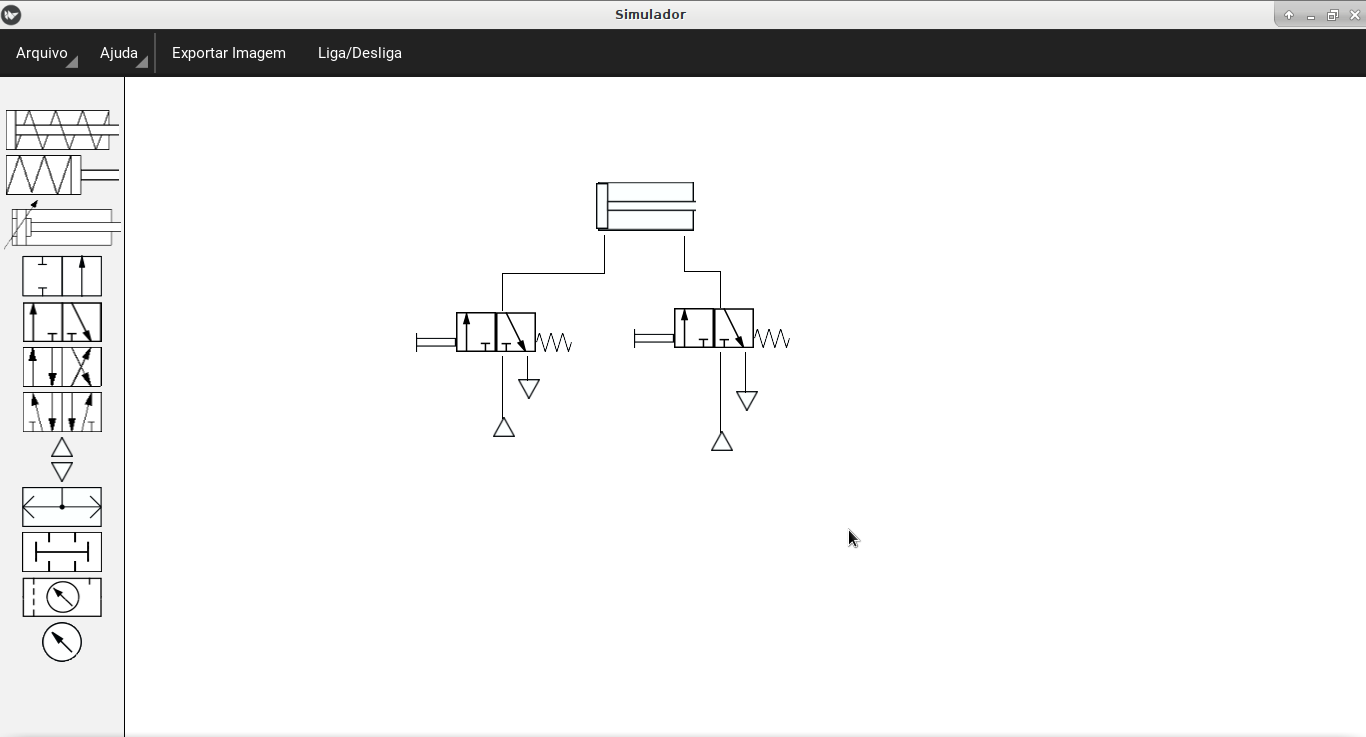
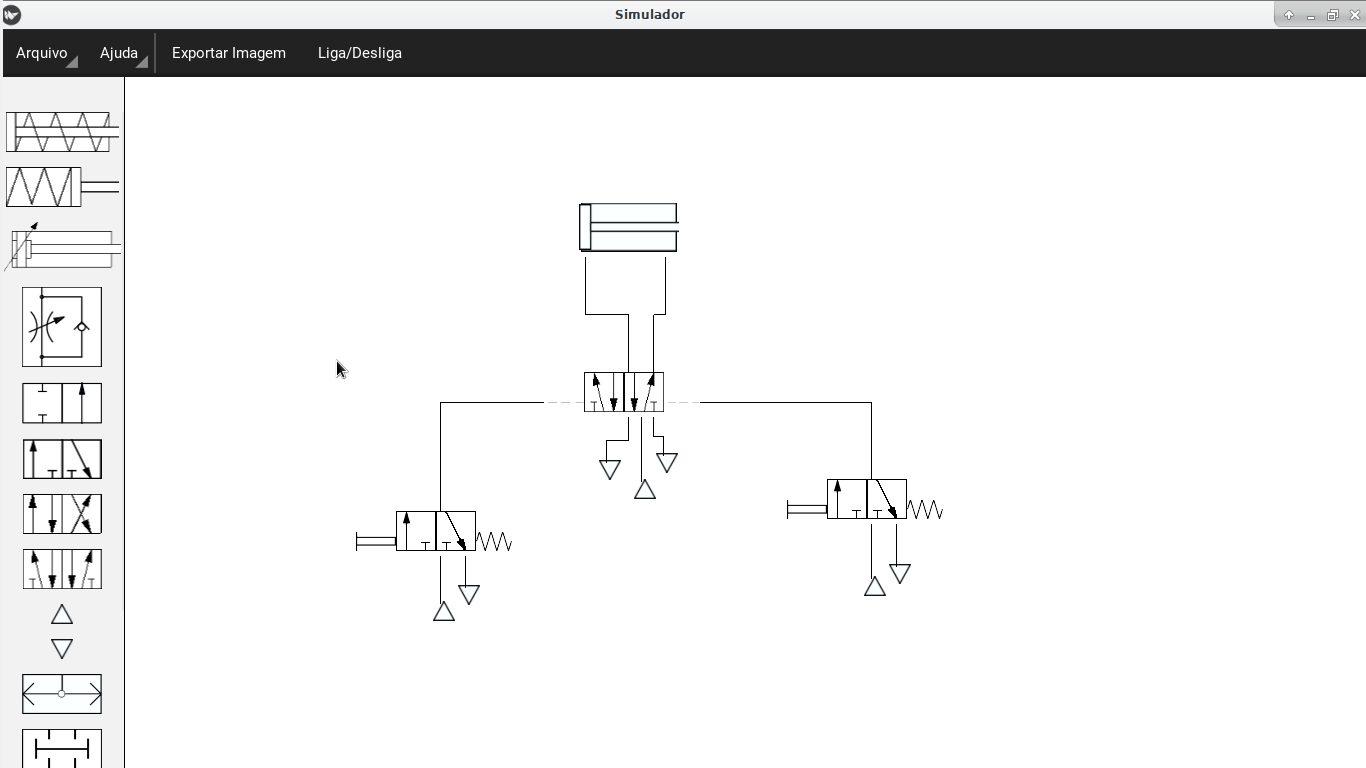
modificações finais

diff --git a/simulador/componentes.py b/simulador/componentes.py
@@ -36,6 +36,10 @@ class Linha(Widget):
     vazao = 0
 
     propaga = BooleanProperty(False)
+    propagou = False
+
+    #workaround para regular a vazao no retorno
+    fator = 1
 
     orientacao1 = 'vertical'
     orientacao2 = 'vertical'
@@ -153,8 +157,9 @@ class Linha(Widget):
     def on_touch_down(self, touch):
         """movimenta a linha ao clicá-la e arrastá-la"""
         if touch.button == 'right':
-            if self.point_over(touch.pos):
-                self.apaga_linha()
+            if not simulando:
+                if self.point_over(touch.pos):
+                    self.apaga_linha()
         else:
             global movendo
 
@@ -205,11 +210,13 @@ class Linha(Widget):
     # def on_pressao(self, instance, value):
     def on_propaga(self, instance, value):
         """tranfere seus dados às linhas seguintes"""
+        #self.propagou = False
         if self.propaga:
             for linha in self.connected_lines:
                 linha.pressao = self.pressao
                 linha.vazao = self.vazao
                 linha.propaga = True
+            self.propagou = True
             self.propaga = False
 
 
@@ -289,18 +296,20 @@ class Conector(ButtonBehavior, Widget):
                 for objeto in componente.children:
                     if isinstance(objeto, Conector):
                         if objeto.collide_point(*self.last_touch.pos):
-                            sobrecon = True
-                            objeto.linha = self.linha
-                            self.linha.p2 = objeto.pos
+                            #para impedir de conectar a si mesmo
+                            if objeto != self:
+                                sobrecon = True
+                                objeto.linha = self.linha
+                                self.linha.p2 = objeto.pos
 
-                            self.linha.orientacao2 = objeto.orientacao
-                            self.linha.atualiza_linha()
+                                self.linha.orientacao2 = objeto.orientacao
+                                self.linha.atualiza_linha()
 
-                            # apaga os quadrados dos conectores
-                            self.tamanho = (0, 0)
-                            self.quadrado.size = self.tamanho
-                            objeto.tamanho = (0, 0)
-                            objeto.quadrado.size = self.tamanho
+                                # apaga os quadrados dos conectores
+                                self.tamanho = (0, 0)
+                                self.quadrado.size = self.tamanho
+                                objeto.tamanho = (0, 0)
+                                objeto.quadrado.size = self.tamanho
 
             elif isinstance(componente, Linha):
                 if componente.point_over(self.last_touch.pos):
@@ -588,7 +597,7 @@ class SimplesAcao(Cilindro):
 
         self.conectores = [
             Conector(
-                'entrada', (10, -2), 'vertical', center=self.pos)]
+                'entrada', (10, 0), 'vertical', center=self.pos)]
 
         super(SimplesAcao, self).__init__(**kwargs)
 
@@ -635,8 +644,8 @@ class DuplaAcao(Cilindro):
 
     def __init__(self, **kwargs):
 
-        self.conectores = [Conector('entrada', (10, -2), 'vertical', center=self.pos),
-                           Conector('entrada', (90, -2), 'vertical', center=self.pos)]
+        self.conectores = [Conector('entrada', (10, 0), 'vertical', center=self.pos),
+                           Conector('entrada', (90, 0), 'vertical', center=self.pos)]
 
         super(DuplaAcao, self).__init__(**kwargs)
 
@@ -644,7 +653,8 @@ class DuplaAcao(Cilindro):
         """equação característica do cilindro"""
         variacao = 0
         if len(pressao) > 0:
-            variacao = (self.conectores[0].linha.pressao * self.conectores[0].linha.vazao) - (self.conectores[1].linha.pressao * self.conectores[1].linha.vazao)
+            #workaround para controlar a vazao na saida
+            variacao = (self.conectores[0].linha.pressao * self.conectores[0].linha.vazao * self.conectores[1].linha.fator) - (self.conectores[1].linha.pressao * self.conectores[1].linha.vazao * self.conectores[0].linha.fator * 0.8)
         return variacao
 
 
@@ -1082,6 +1092,7 @@ class Valvula(ButtonBehavior, Componente):
                     self.pos_val -= varpos  # clarificar esses sinais
                 self.varpos_ant = varpos
 
+
     def __init__(self, qt_vias, **kwargs):
 
         self.qt_vias = qt_vias
@@ -1199,7 +1210,6 @@ class Vias(Image):
         for conector in self.parent.conectores:
             for conector2 in self.parent.conectores:
                 conector.linha.disconnect(conector2.linha)
-                #conector2.linha.vazao = 0
 
     def __init__(self, tipo, vias, **kwargs):
         super(Vias, self).__init__(**kwargs)
@@ -1270,12 +1280,9 @@ class DuasVias(Vias):
                 self.parent.conectores[0].linha)
             self.parent.conectores[0].linha.connect_to(
                 self.parent.conectores[1].linha)
-                
-            print('passa')
 
         def bloqueia():
             self.desconecta_tudo()
-            print('bloqueia')
 
         self.tipo = tipo
         self.vias = [
@@ -1458,8 +1465,6 @@ class QuatroVias(Vias):
                 self.parent.conectores[3].linha)
             self.parent.conectores[3].linha.connect_to(
                 self.parent.conectores[2].linha)
-                
-            print('to aqui')
 
         def b():
             """ _
@@ -1871,8 +1876,13 @@ class UnidadeCondicionadora(Componente):
         """ciclo de atualização da pressão de saída"""
         if simulando:
             if self.conectores[1].linha is not None:
-                self.conectores[1].linha.pressao = self.conectores[
-                    0].linha.pressao * self.fator
+                if self.conectores[0].linha is not None:
+
+                    self.conectores[1].linha.pressao = self.conectores[
+                        0].linha.pressao * self.fator
+                    self.conectores[1].linha.vazao = self.conectores[
+                        0].linha.vazao
+                    self.conectores[1].linha.propaga = True
 
     def __init__(self, **kwargs):
 
@@ -1927,7 +1937,7 @@ class RedutorVazao(Componente):
     fator = 1
 
     #sentido da redução de vazão
-    #sentido = 0
+    sentido = 0
 
     def remove_bubble(self):
         """apaga o menu flutuante"""
@@ -1941,17 +1951,42 @@ class RedutorVazao(Componente):
         if simulando:
             if self.conectores[0].linha is not None and self.conectores[1].linha is not None:
 
-                #if self.sentido == 0:
-                #vazao maxima no sentido oposto
-                self.conectores[1].linha.connect_to(
-                    self.conectores[0].linha)
+                if self.sentido == 0:
 
-                self.conectores[1].linha.pressao = self.conectores[0].linha.pressao
-                self.conectores[1].linha.vazao = self.conectores[0].linha.vazao * self.fator
-                self.conectores[1].linha.propaga = True
+                    if self.conectores[0].linha.propagou == True:
 
-                #self.conectores[0].linha.pressao = self.conectores[1].linha.pressao
-                #self.conectores[0].linha.vazao = self.conectores[1].linha.vazao
+                        self.conectores[1].linha.pressao = self.conectores[0].linha.pressao
+                        self.conectores[1].linha.vazao = self.conectores[0].linha.vazao * self.fator
+                        self.conectores[1].linha.propaga = True
+
+                        self.conectores[0].linha.propagou == False
+                        
+                    elif self.conectores[1].linha.propagou == True:
+                        self.conectores[0].linha.pressao = self.conectores[1].linha.pressao
+                        self.conectores[0].linha.vazao = self.conectores[1].linha.vazao
+                        self.conectores[0].linha.propaga = True
+
+                        self.conectores[1].linha.propagou == False                
+                else:
+                    
+                    if self.conectores[0].linha.propagou == True:
+
+                        self.conectores[1].linha.fator = self.fator
+
+                        self.conectores[1].linha.pressao = self.conectores[0].linha.pressao
+                        self.conectores[1].linha.vazao = self.conectores[0].linha.vazao 
+                        self.conectores[1].linha.propaga = True
+
+                        self.conectores[0].linha.propagou == False
+                        
+                    elif self.conectores[1].linha.propagou == True:
+                        self.conectores[0].linha.fator = self.fator
+                        
+                        self.conectores[0].linha.pressao = self.conectores[1].linha.pressao
+                        self.conectores[0].linha.vazao = self.conectores[1].linha.vazao* self.fator
+                        self.conectores[0].linha.propaga = True
+
+                        self.conectores[1].linha.propagou == False                                      
                 
 
 
@@ -1963,12 +1998,11 @@ class RedutorVazao(Componente):
             self.source = 'images/x10640.png'
 
         # inverte os conectores
-        self.conectores[0].pos_relativa, self.conectores[1].pos_relativa = self.conectores[1].pos_relativa, self.conectores[0].pos_relativa
-
-        # desconecta as linhas
-        for conector in self.conectores:
-            if conector.linha is not None:
-                conector.linha.apaga_linha()        
+        if self.sentido == 0:
+            self.sentido = 1
+        elif self.sentido == 1:
+            self.sentido = 0
+   
 
 
     def __init__(self, **kwargs):
@@ -2019,13 +2053,9 @@ class RedutorVazao(Componente):
         super(Image, self).on_touch_down(touch)
 
 class ReguladorDePressao(Componente):
-    #trocar texto
-    """Válvula controladora de pressão.
-    Ajusta reduz a pressão de saída.
+    """Válvula reguladora de pressão.
+    Ajusta a pressão de saída.
     """
-
-    #colocar para aparecer no menu lateral
-    #colocar valos de pressao para aparecer num textbox
 
     source = 'images/X10500.png'
 
@@ -2103,8 +2133,7 @@ class Manometro(Componente):
     def ciclo(self, dt):
         if simulando:
             if self.conectores[0].linha is not None:
-                self.etiqueta.text = str(self.conectores[0].linha.pressao)
-                #self.etiqueta2.text = str(self.conectores[0].linha.vazao)
+                self.etiqueta.text = str(self.conectores[0].linha.vazao)
 
     def __init__(self, **kwargs):
 
@@ -2115,16 +2144,12 @@ class Manometro(Componente):
         super(Manometro, self).__init__(**kwargs)
 
         self.etiqueta = Label(text='', color=(0, 0, 0))
-        #self.etiqueta2 = Label(text='', color=(0, 0, 0))
         self.add_widget(self.etiqueta)
-        #self.add_widget(self.etiqueta2)
 
         def update_rect(instance, value):
             """reposiciona o label naa posição do manômetro"""
             self.etiqueta.center = center = (
                 self.center[0], self.pos[1] + self.height + 5)
-            #self.etiqueta2.center = center = (
-            #    self.center[0], self.pos[1] + self.height + 20)
 
         self.bind(pos=update_rect, size=update_rect)
 

diff --git a/simulador/simulador.py b/simulador/simulador.py
@@ -107,18 +107,20 @@ class Gui(BoxLayout):
     def toogle(self):
         muda_estado()
 
-    texto = "Este simulador foi desenvolvido para o meu trabalho de conclusão de curso "\
-            "e está disponível sob licença GPL 3 em: \n"
+    texto = "Este simulador foi desenvolvido para o meu trabalho"\
+            "de conclusão de curso "\
+            "em Engenharia de Controle e Automação e está "\
+            "disponível sob licença GPL 3 em: \n"
     link = "[b]github.com/vitorsgoncalves/tcc[/b]"
 
     content = BoxLayout(orientation='vertical')
     content.add_widget(Label(text=texto, markup=True, text_size=(320,100), halign='justify', valign='middle'))
     content.add_widget(Label(text=link, markup=True, text_size=(320,100), halign='center', valign='middle'))
 
-    popup = Popup(title="Copyright (C) 2016 Vitor da Silva Gonçalves",
+    popup = Popup(title="Copyright© 2017 Vitor da Silva Gonçalves",
                   content=content,
                   size_hint=(None, None),
-                  size=(350, 160),
+                  size=(350, 200),
                   auto_dismiss=True
                   )
 

diff --git a/README.md b/README.md
@@ -5,8 +5,8 @@ Simulador de circuitos pneumáticos escrito em python utilizando a biblioteca ki
 
 Permite a montagem e simulação interativa em tempo real de circuitos compostos por válvulas e cilindros.
 
-<img src="/screenshots/01.png?raw=true" width="49%" height="40%" />
-<img src="/screenshots/02.png?raw=true" width="49%" height="40%" />
+<img src="/screenshots/01.png?raw=true" width="40%" height="40%" />
+<img src="/screenshots/02.png?raw=true" width="40%" height="40%" />
 ___
 
 ### Utilização
@@ -19,4 +19,4 @@ Após a instalação dos requisitos, basta baixar o simulador e executar o arqui
 Este software foi desenvolvido para meu trabalho de conclusão de curso de Engenharia de Controle e Automação e está disponível como software livre sob licença GPL3 em um [repositório público](https://github.com/vitorsgoncalves/tcc) no GitHub.
 
 ___
-2016 por Vitor da Silva Gonçalves
+2017 por Vitor da Silva Gonçalves
